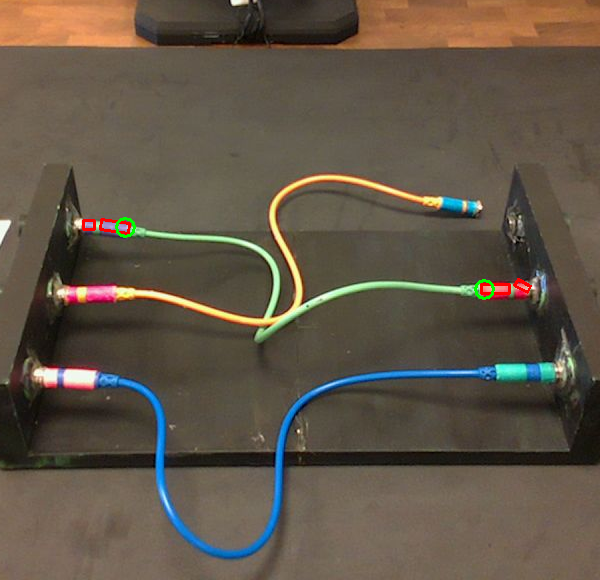
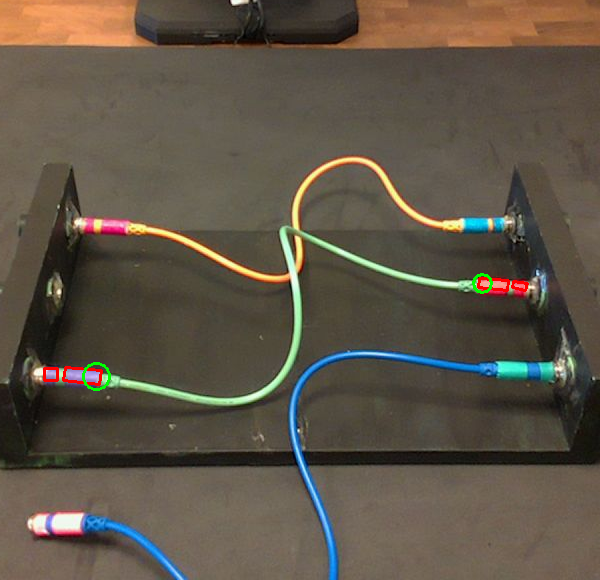
Final SYSTEM

diff --git a/catkin_ws/src/ROSLLM/behavior_executor/src/yumi_tree.cpp b/catkin_ws/src/ROSLLM/behavior_executor/src/yumi_tree.cpp
@@ -8,7 +8,7 @@
 #include <rosllm_srvs/ExecuteBehavior.h>
 #include <rosllm_srvs/ExecuteBehaviorRequest.h>
 #include <fstream>
-
+#include <ros/package.h>
 
 using namespace BT;
 class PrintValue : public BT::SyncActionNode
@@ -103,7 +103,8 @@ public:
 
     NodeStatus onResponse(const ResponseType& rep) override
     {
-        ROS_INFO("YuMi Action: Executed");
+        ROS_INFO("YuMi Action: Executed - %s", rep.description.c_str());
+        ros::Duration(1.0).sleep(); // Simulate some processing time
         if (rep.success)
         {
             setOutput<std::string>("message", rep.description);
@@ -139,39 +140,9 @@ int main(int argc, char** argv )
     ROS_INFO("BT nodes registered successfully.");
     // Read the XML file into a string
     ROS_INFO("Reading XML file...");
-    // std::ifstream xml_file("/home/martin/Documents/FinalYearProject/FinalYearProject/catkin_ws/src/ROSLLM/behavior_executor/config/gen_tree.xml");
-    // std::stringstream buffer;
-    // buffer << xml_file.rdbuf();
-    // std::string xml_text = buffer.str();
-    // ROS_INFO("XML file read successfully.");
-    // ROS_INFO("XML content: %s", xml_text.c_str());
-    static const char* xml_text = R"(
-        <root>
-            <BehaviorTree>
-            <Sequence>
-                <YumiAction service_name = "execute_behaviour"
-                            action="right_place"
-                            rope="rope_o"
-                            marker="marker_b"
-                            site="site_ur"
-                            message="{task}" />
-                <YumiAction service_name = "execute_behaviour"
-                            action="right_place"
-                            rope="rope_g"
-                            marker="marker_b"
-                            site="target_r3"
-                            message="{task}" />
-                <YumiAction service_name = "execute_behaviour"
-                            action="right_place"
-                            rope="rope_o"
-                            marker="marker_b"
-                            site="target_r2"
-                            message="{task}" />
-                </Sequence>
-            </BehaviorTree>
-        </root>                           
-    )";
-    auto tree = factory.createTreeFromText(xml_text);
+    std::string pkg_path = ros::package::getPath("behavior_executor");
+    std::string xml_file = pkg_path + "/config/gen_tree.xml";
+    auto tree = factory.createTreeFromFile(xml_file);
     ROS_INFO("Behavior Tree created successfully.");
     ROS_INFO("Starting Behavior Tree execution...");
     NodeStatus status = NodeStatus::IDLE;

diff --git a/catkin_ws/src/ROSLLM/yumi_ctrl/scripts/scene_ctrl.py b/catkin_ws/src/ROSLLM/yumi_ctrl/scripts/scene_ctrl.py
@@ -143,6 +143,7 @@ class ScenePrimitives:
             if self.left_place(rope, marker, site) == True:
                 res.success = True
                 res.description = f'Left place of {marker} on {rope} to {site} successful.'
+                self.yumi.wait_for_completion_l()
             else:
                 res.success = False
                 res.description = f'Left place of {marker} on {rope} to {site} failed.'
@@ -150,6 +151,7 @@ class ScenePrimitives:
             if self.right_place(rope, marker, site) == True:
                 res.success = True
                 res.description = f'Right place of {marker} on {rope} to {site} successful.'
+                self.yumi.wait_for_completion_r()
             else:
                 res.success = False
                 res.description = f'Right place of {marker} on {rope} to {site} failed.'
@@ -517,7 +519,7 @@ class ScenePrimitives:
         
         target_position = self.pm.site_poses[target]
         target_pos, [_,_,yaw] = target_position[:3], euler_from_quaternion(target_position[3:])
-        insert_pos = [target_pos[0] + 0.003, target_pos[1] - 0.0025, target_pos[2]+self.pm.gp_os + 0.002]  # Slightly above the target
+        insert_pos = [target_pos[0] + 0.003, target_pos[1] + 0.0075, target_pos[2]+self.pm.gp_os + 0.002]  # Slightly above the target
         insert_app_pos = ls_add(insert_pos, [0, self.pm.app_os, 0])  # Slightly above the target
         insert_rot = self.pm.grasp_rot_r
         insert_rot_fine = ls_add(insert_rot, [0, 0, yaw])
@@ -563,7 +565,7 @@ class ScenePrimitives:
         target_position = self.pm.site_poses[target]
         target_pos, [_,_,yaw] = target_position[:3], euler_from_quaternion(target_position[3:])
         
-        insert_pos = [target_pos[0] + 0.0025, target_pos[1] + 0.0025, target_pos[2]+self.pm.gp_os + 0.0027]
+        insert_pos = [target_pos[0] + 0.0025, target_pos[1], target_pos[2]+self.pm.gp_os + 0.0027]
         
         
         insert_app_pos = ls_add(insert_pos, [0, -self.pm.app_os, 0])  # Slightly above the target

diff --git a/catkin_ws/src/ROSLLM/yumi_ctrl/scripts/scene_params.py b/catkin_ws/src/ROSLLM/yumi_ctrl/scripts/scene_params.py
@@ -296,9 +296,9 @@ class SceneParameters:
         table_height = self.table_offset
        
 
-        self.site_poses['site_dl'] = [0.34, 0.085, table_height + -0.00735] # centre of the left section a
-        self.site_poses['site_dd'] = [0.34, 0, table_height + -0.00735] # centre of the left section a
-        self.site_poses['site_dr'] = [0.34, -0.1, table_height + -0.00735] # centre of the right section b
+        self.site_poses['site_dl'] = [0.35, 0.085, table_height + -0.00735] # centre of the left section a
+        self.site_poses['site_dd'] = [0.35, 0, table_height + -0.00735] # centre of the left section a
+        self.site_poses['site_dr'] = [0.35, -0.1, table_height + -0.00735] # centre of the right section b
         self.site_poses['site_ul'] = [0.57, 0.085, table_height + 0.005] # centre of the left section c
         self.site_poses['site_ur'] = [0.57, -0.1, table_height + 0.005] # centre of the right section c
         self.site_poses['site_uu'] = [0.57, 0, table_height + 0.005] # centre of the left section d

diff --git a/catkin_ws/src/ROSLLM/yumi_ctrl/scripts/ctrl_node.py b/catkin_ws/src/ROSLLM/yumi_ctrl/scripts/ctrl_node.py
@@ -27,7 +27,7 @@ class CtrlNode:
     
     image_topic = "/yumi_l515/camera/color/image_raw"  # Update with your RealSense topic
     def __init__(self):
-        auto_execution = False
+        auto_execution = True
         reset = True
         self.debug = True
         self.bridge = CvBridge()
@@ -200,6 +200,7 @@ class CtrlNode:
         return xml
     
     def save_bt_xml(self, xml_string: str, path: str = BT_XML_PATH):
+        os.makedirs(os.path.dirname(path), exist_ok=True)
         with open(path, 'w') as f:
             f.write(xml_string)
         rospy.loginfo(f"BT XML saved to {path}")
